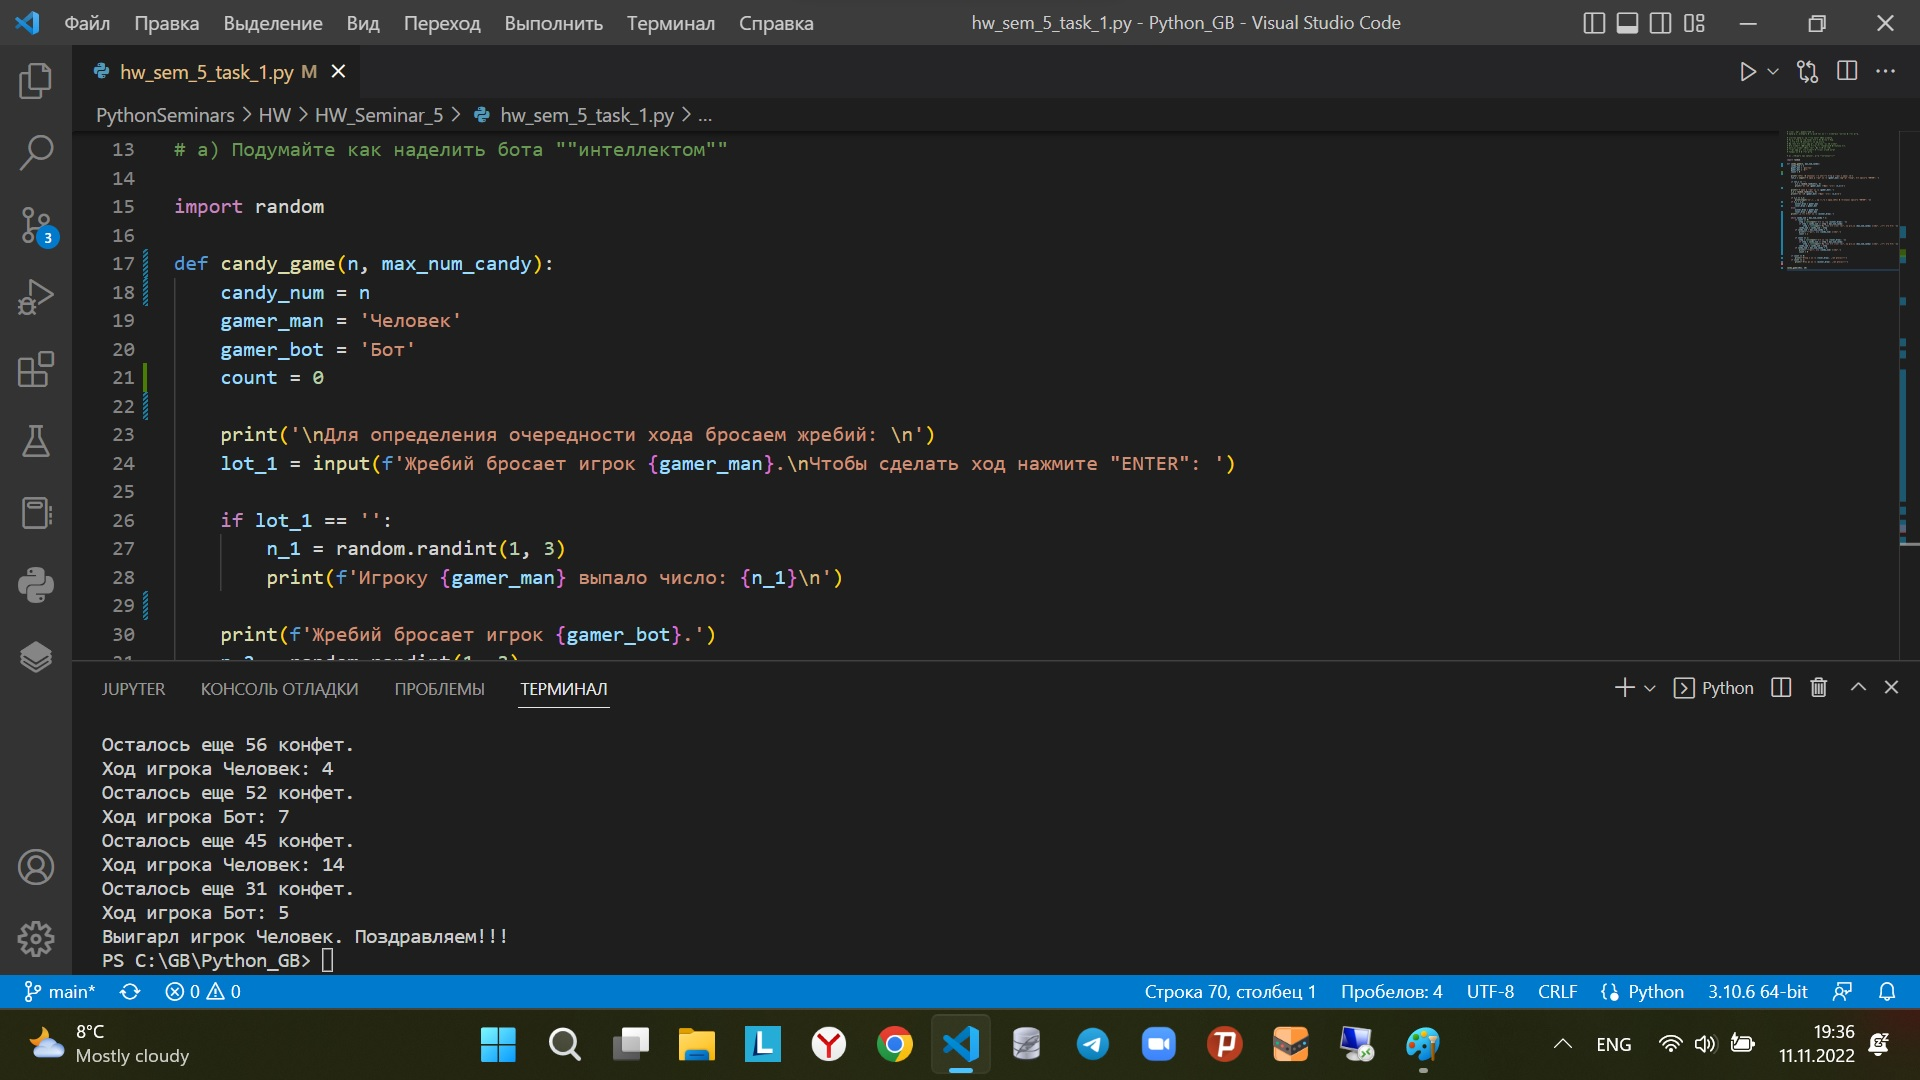
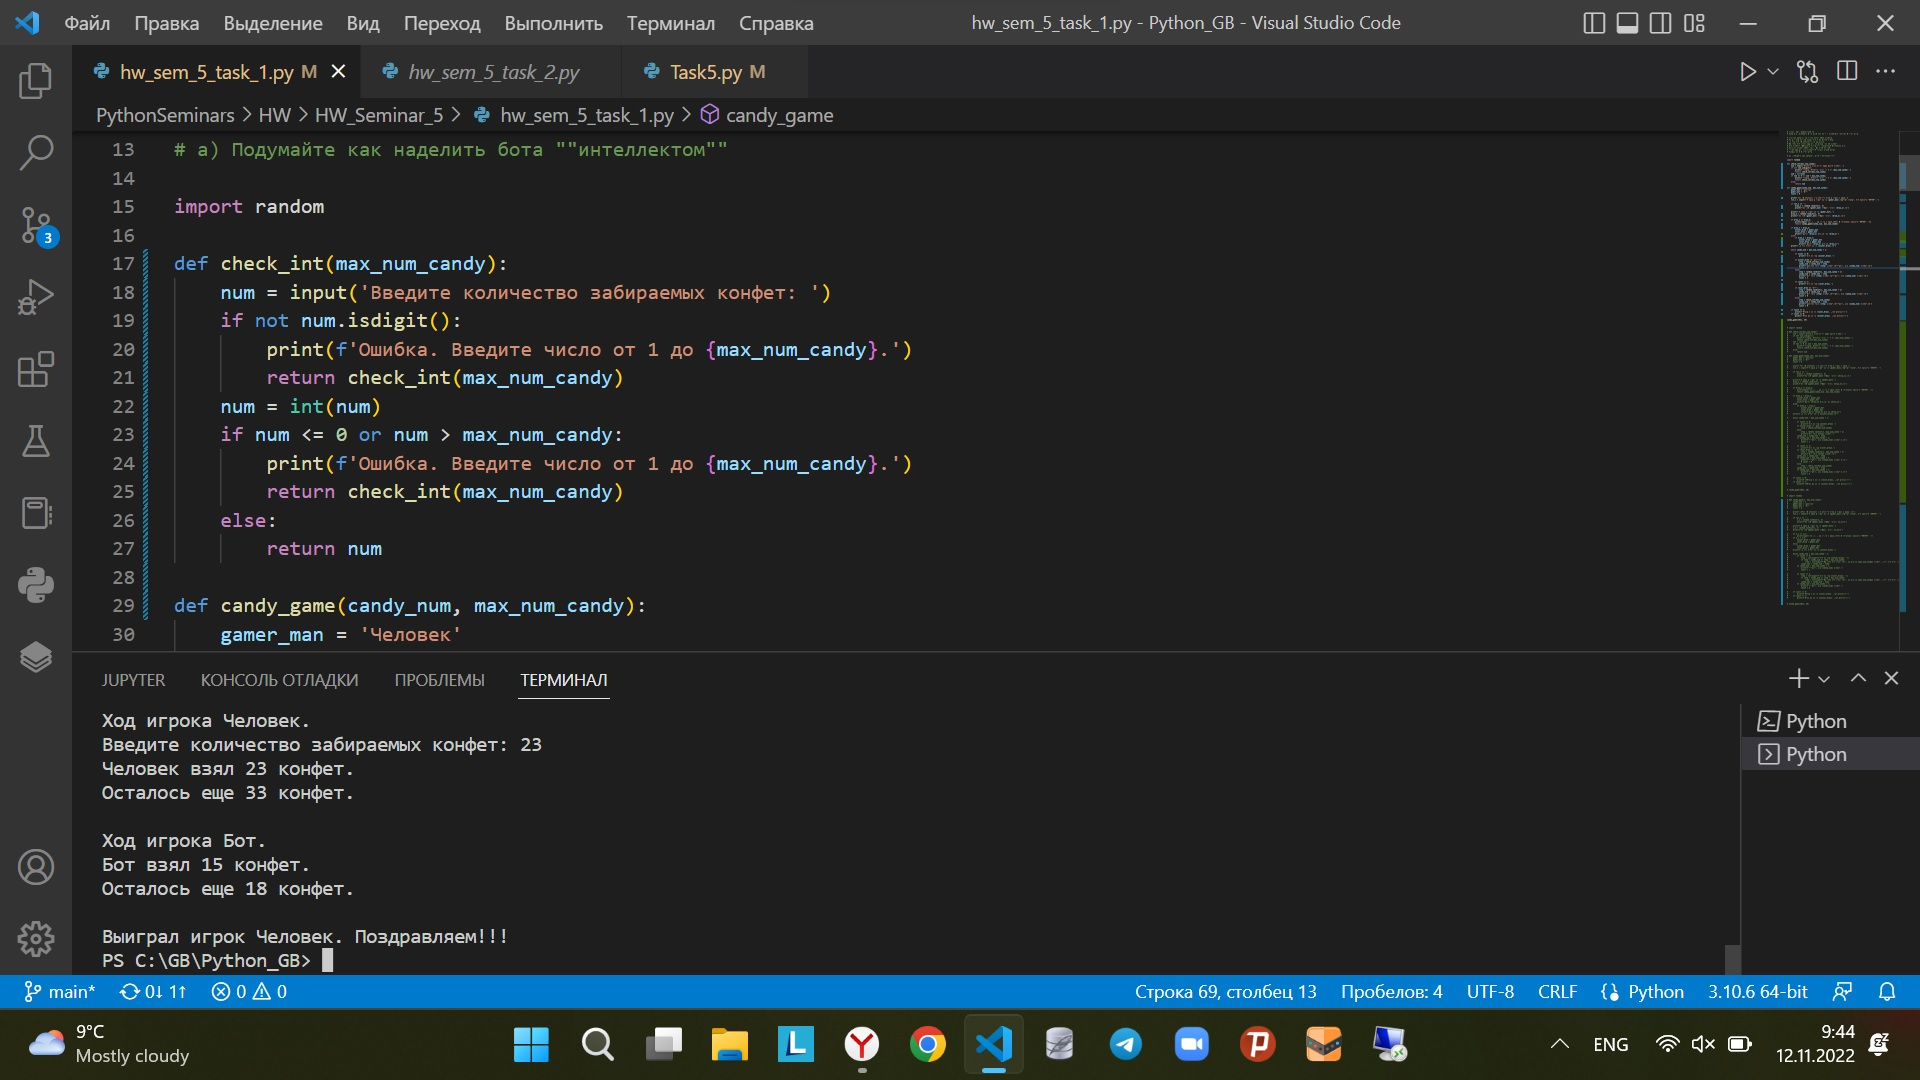
Edited sem 5 task 5

diff --git a/PythonSeminars/HW/HW_Seminar_5/hw_sem_5_task_1.py b/PythonSeminars/HW/HW_Seminar_5/hw_sem_5_task_1.py
@@ -14,57 +14,225 @@
 
 import random
 
-def candy_game(n, max_num_candy):
-    candy_num = n
+def check_int(max_num_candy):
+    num = input('Введите количество забираемых конфет: ')
+    if not num.isdigit():
+        print(f'Ошибка. Введите число от 1 до {max_num_candy}.')
+        return check_int(max_num_candy)
+    num = int(num)
+    if num <= 0 or num > max_num_candy:
+        print(f'Ошибка. Введите число от 1 до {max_num_candy}.')
+        return check_int(max_num_candy)
+    else:
+        return num
+    
+def candy_game(candy_num, max_num_candy):
     gamer_man = 'Человек'
     gamer_bot = 'Бот'
     count = 0
         
-    print('\nДля определения очередности хода бросаем жребий: \n')
+    print('Для определения очередности хода бросаем жребий.')
     lot_1 = input(f'Жребий бросает игрок {gamer_man}.\nЧтобы сделать ход нажмите "ENTER": ')
     
     if lot_1 == '':
-        n_1 = random.randint(1, 3)
-        print(f'Игроку {gamer_man} выпало число: {n_1}\n')
+        draw_1 = random.randint(1, 3)
+        print(f'Игроку {gamer_man} выпало число: {draw_1}.\n')
         
     print(f'Жребий бросает игрок {gamer_bot}.')
-    n_2 = random.randint(1, 3)
-    print(f'Игроку {gamer_bot} выпало число: {n_2}\n')
+    draw_2 = random.randint(1, 3)
+    print(f'Игроку {gamer_bot} выпало число: {draw_2}.\n')
     
-    if n_1 == n_2:
+    if draw_1 == draw_2:
         print(input('Ничья. Пребросьте жребий.\nДля продолжения нажмите "ENTER": '))
-    if n_1 > n_2:
+        return candy_game(candy_num, max_num_candy)
+                
+    if draw_1 > draw_2:
         winner_draw = gamer_man
         loser_draw = gamer_bot
+        print(f'Число {draw_1} больше чем {draw_2}')
     else:
-        winner_draw = gamer_bot
-        loser_draw = gamer_man
-    print(f'Первым ходит игрок {winner_draw}.')
+        if draw_2 > draw_1:
+            winner_draw = gamer_bot
+            loser_draw = gamer_man
+            print(f'Число {draw_2} больше {draw_1}')
+    print(f'Первым ходит игрок {winner_draw}.\n')
 
     while candy_num > max_num_candy + 1:
+        
         if count == 0:
-            step = int(input(f'Ход игрока {winner_draw}: '))
-            if step > candy_num or step > max_num_candy:
-                step = int(input(f'За один ход можно взять не больше {max_num_candy} конфет. Повторите ход: '))
+            print(f'Ход игрока {winner_draw}.')
+            
+        if winner_draw == 'Человек':
+            step = check_int(max_num_candy)
             candy_num = candy_num - step
-        if candy_num > max_num_candy + 1:
-            print(f'Осталось еще {candy_num} конфет.')
+            print(f'Человек взял {step} конфет.\nОсталось еще {candy_num} конфет.\n')
             count = 1
-      
-        if count == 1:
-            step = int(input(f'Ход игрока {loser_draw}: '))
-            if step > candy_num or step > max_num_candy:
-                step = int(input(f'За один ход можно взять не больше {max_num_candy} конфет. Повторите ход: '))
+        else:
+            step = random.randint(1, max_num_candy + 1)
             candy_num = candy_num - step
-        if candy_num > max_num_candy + 1:
-            print(f'Осталось еще {candy_num} конфет.')
+            print(f'Бот взял {step} конфет.\nОсталось еще {candy_num} конфет.\n')
+            count = 1
+              
+        if count == 1:
+            print(f'Ход игрока {loser_draw}.')
+            
+        if loser_draw == 'Бот':
+            step = random.randint(1, max_num_candy + 1)
+            candy_num = candy_num - step
+            print(f'Бот взял {step} конфет.\nОсталось еще {candy_num} конфет.\n')
+            count = 0
+        else:
+            step = check_int(max_num_candy)
+            candy_num = candy_num - step
+            print(f'Человек взял {step} конфет.\nОсталось еще {candy_num} конфет.\n')
             count = 0
   
-    if count == 0:
-        print(f'Выигарл игрок {loser_draw}. Поздравляем!!!')
     if count == 1:
+        print(f'Выигарл игрок {loser_draw}. Поздравляем!!!')
+    if count == 0:
         print(f'Выиграл игрок {winner_draw}. Поздравляем!!!')
 
-
 candy_game(2021, 28)
+
+
+
+# import random
+
+# def check_int(max_num_candy):
+#     num = input('Введите количество забираемых конфет: ')
+#     if not num.isdigit():
+#         print(f'Ошибка. Введите число от 1 до {max_num_candy}.')
+#         return check_int(max_num_candy)
+#     num = int(num)
+#     if num <= 0 or num > max_num_candy:
+#         print(f'Ошибка. Введите число от 1 до {max_num_candy}.')
+#         return check_int(max_num_candy)
+#     else:
+#         return num
+    
+# def candy_game(candy_num, max_num_candy):
+#     gamer_man = 'Человек'
+#     gamer_bot = 'Бот'
+#     count = 0
+        
+#     print('Для определения очередности хода бросаем жребий.')
+#     lot_1 = input(f'Жребий бросает игрок {gamer_man}.\nЧтобы сделать ход нажмите "ENTER": ')
+    
+#     if lot_1 == '':
+#         draw_1 = random.randint(1, 3)
+#         print(f'Игроку {gamer_man} выпало число: {draw_1}.\n')
+        
+#     print(f'Жребий бросает игрок {gamer_bot}.')
+#     draw_2 = random.randint(1, 3)
+#     print(f'Игроку {gamer_bot} выпало число: {draw_2}.\n')
+    
+#     if draw_1 == draw_2:
+#         print(input('Ничья. Пребросьте жребий.\nДля продолжения нажмите "ENTER": '))
+#         return candy_game(candy_num, max_num_candy)
+                
+#     if draw_1 > draw_2:
+#         winner_draw = gamer_man
+#         loser_draw = gamer_bot
+#         print(f'Число {draw_1} больше чем {draw_2}')
+#     else:
+#         if draw_2 > draw_1:
+#             winner_draw = gamer_bot
+#             loser_draw = gamer_man
+#             print(f'Число {draw_2} больше {draw_1}')
+#     print(f'Первым ходит игрок {winner_draw}.\n')
+
+#     while candy_num > max_num_candy + 1:
+        
+#         if count == 0:
+#             print(f'Ход игрока {winner_draw}.')
+#         if winner_draw == 'Человек':
+#             step = check_int(max_num_candy)
+#         else:
+#             step = random.randint(1, max_num_candy + 1)
+#             print(f'Бот взял {step} конфет.')
+#         candy_num = candy_num - step
+#         if candy_num > max_num_candy + 1:
+#             print(f'Осталось еще {candy_num} конфет 1.\n')
+#             count = 1
+      
+#         if count == 1:
+#             print(f'Ход игрока {loser_draw}.')
+#         if loser_draw == 'Бот':
+#             step = random.randint(1, max_num_candy + 1)
+#             print(f'Бот взял {step} конфет.\n')
+#         candy_num = candy_num - step
+#         if candy_num > max_num_candy + 1:
+#             print(f'Осталось еще {candy_num} конфет 2.\n')
+#             # count = 0
+#         else:
+#             step = check_int(max_num_candy)
+#         candy_num = candy_num - step
+#         if candy_num > max_num_candy + 1:
+#             print(f'Осталось еще {candy_num} конфет 3.\n')
+#             count = 0
+  
+#     if count == 0:
+#         print(f'\nВыигарл игрок {loser_draw}. Поздравляем!!!')
+#     if count == 1:
+#         print(f'\nВыиграл игрок {winner_draw}. Поздравляем!!!')
+
+
+# candy_game(2021, 28)
+
+
+# import random
+
+# def candy_game(n, max_num_candy):
+#     candy_num = n
+#     gamer_man = 'Человек'
+#     gamer_bot = 'Бот'
+#     count = 0
+        
+#     print('\nДля определения очередности хода бросаем жребий: \n')
+#     lot_1 = input(f'Жребий бросает игрок {gamer_man}.\nЧтобы сделать ход нажмите "ENTER": ')
+    
+#     if lot_1 == '':
+#         n_1 = random.randint(1, 3)
+#         print(f'Игроку {gamer_man} выпало число: {n_1}\n')
+        
+#     print(f'Жребий бросает игрок {gamer_bot}.')
+#     n_2 = random.randint(1, 3)
+#     print(f'Игроку {gamer_bot} выпало число: {n_2}\n')
+    
+#     if n_1 == n_2:
+#         print(input('Ничья. Пребросьте жребий.\nДля продолжения нажмите "ENTER": '))
+#     if n_1 > n_2:
+#         winner_draw = gamer_man
+#         loser_draw = gamer_bot
+#     else:
+#         winner_draw = gamer_bot
+#         loser_draw = gamer_man
+#     print(f'Первым ходит игрок {winner_draw}.')
+
+#     while candy_num > max_num_candy + 1:
+#         if count == 0:
+#             step = int(input(f'Ход игрока {winner_draw}: '))
+#             if step > candy_num or step > max_num_candy:
+#                 step = int(input(f'За один ход можно взять не больше {max_num_candy} конфет. Повторите ход: '))
+#             candy_num = candy_num - step
+#         if candy_num > max_num_candy + 1:
+#             print(f'Осталось еще {candy_num} конфет.')
+#             count = 1
+      
+#         if count == 1:
+#             step = int(input(f'Ход игрока {loser_draw}: '))
+#             if step > candy_num or step > max_num_candy:
+#                 step = int(input(f'За один ход можно взять не больше {max_num_candy} конфет. Повторите ход: '))
+#             candy_num = candy_num - step
+#         if candy_num > max_num_candy + 1:
+#             print(f'Осталось еще {candy_num} конфет.')
+#             count = 0
+  
+#     if count == 0:
+#         print(f'Выигарл игрок {loser_draw}. Поздравляем!!!')
+#     if count == 1:
+#         print(f'Выиграл игрок {winner_draw}. Поздравляем!!!')
+
+
+# candy_game(2021, 28)
 

diff --git a/PythonSeminars/Seminars/Task5.py b/PythonSeminars/Seminars/Task5.py
@@ -82,14 +82,14 @@ print(encoded_val)
 
 import random
 
-def step():
+def check_int():
     num = input('Введите число на хрен: ')
     if not num.isdigit():
         print('Неверно. Повторите.')
-        return step()
+        return check_int()
     elif int(num) <= 0 or int(num) > 28:
         print('Неверно. Повторите.')
-        return step()
+        return (check_int)
     else:
         return int(num)
 
